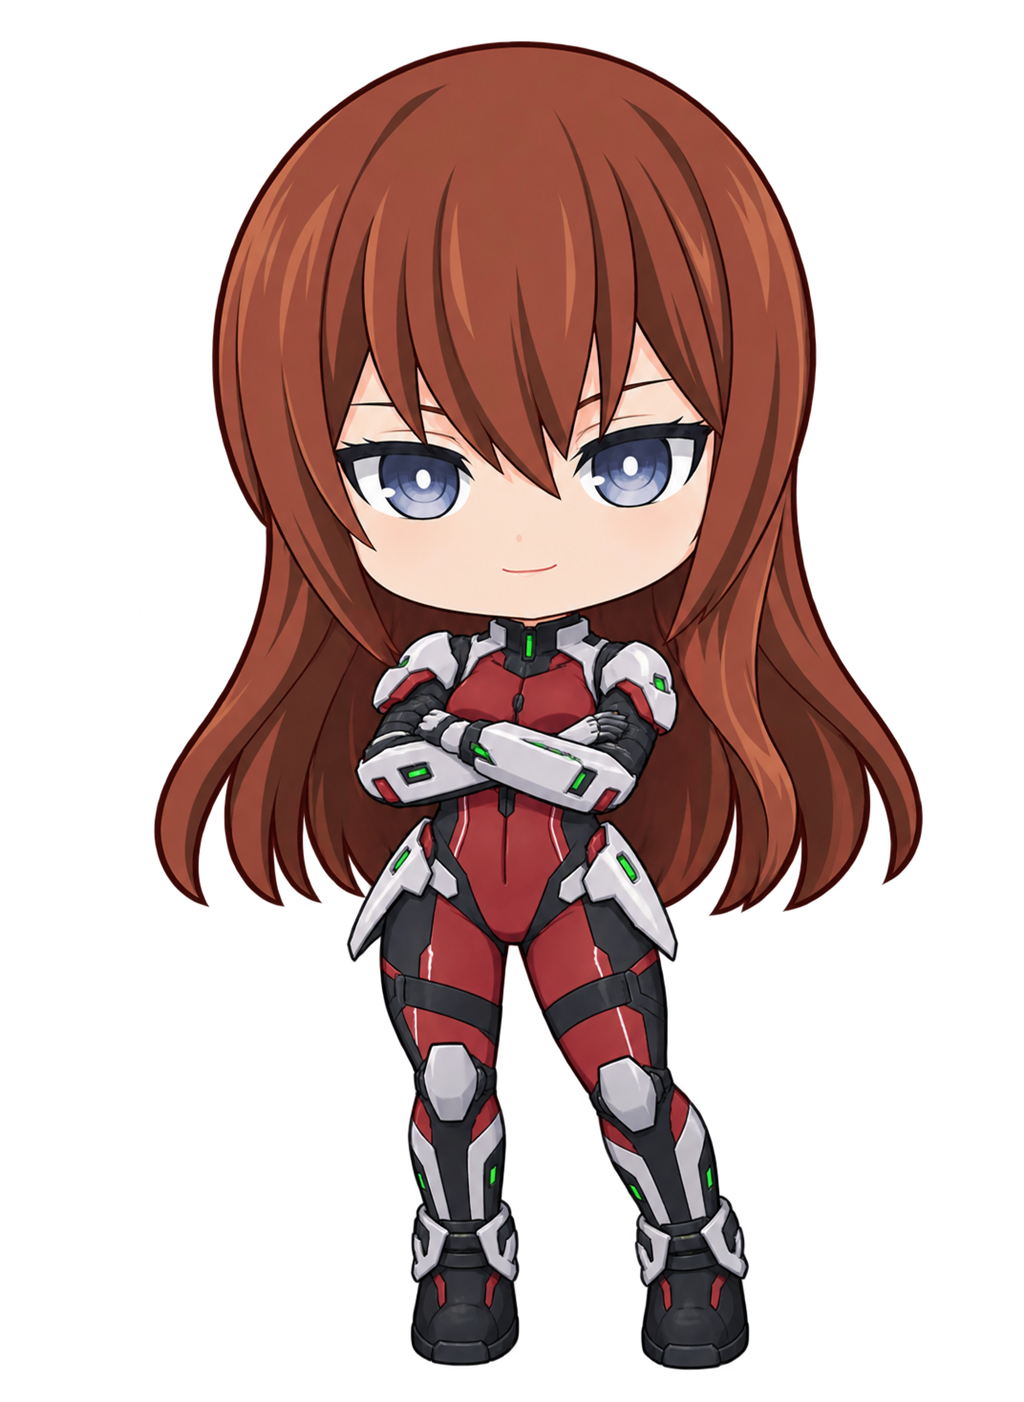
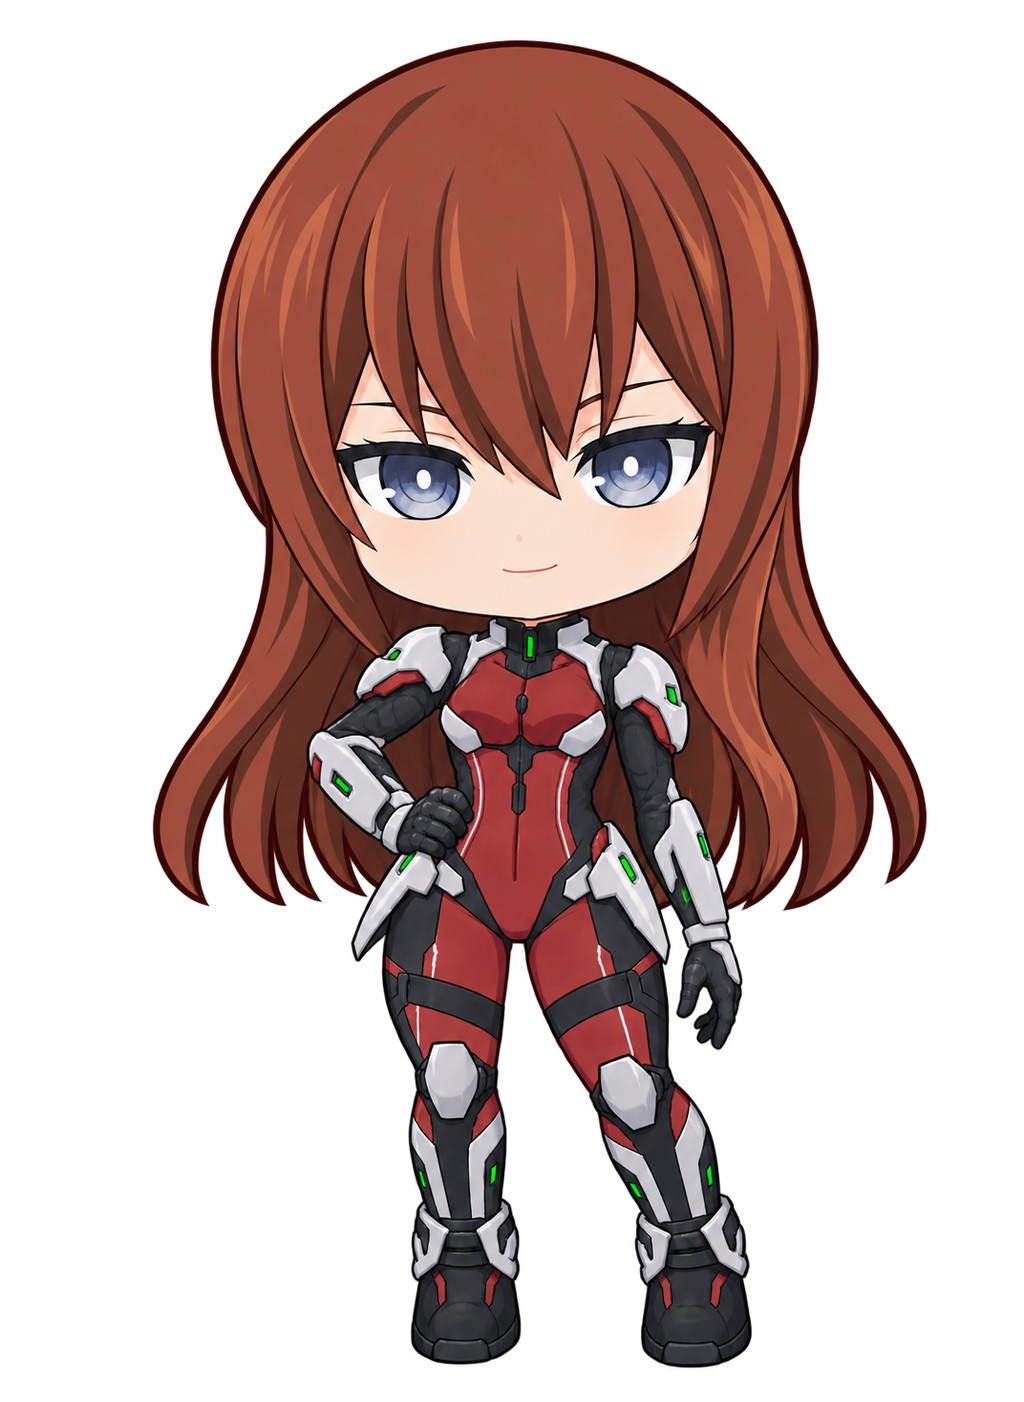
Release v3.2.0: distinct idle poses for seven outfits

diff --git a/src/AssemblyInfo.cs b/src/AssemblyInfo.cs
@@ -3,6 +3,6 @@ using System.Reflection;
 [assembly: AssemblyTitle("Makise Desktop Pet")]
 [assembly: AssemblyProduct("Makise Desktop Pet")]
 [assembly: AssemblyDescription("Windows desktop companion featuring Makise Kurisu")]
-[assembly: AssemblyVersion("3.1.2.0")]
-[assembly: AssemblyFileVersion("3.1.2.0")]
-[assembly: AssemblyInformationalVersion("3.1.2")]
+[assembly: AssemblyVersion("3.2.0.0")]
+[assembly: AssemblyFileVersion("3.2.0.0")]
+[assembly: AssemblyInformationalVersion("3.2.0")]

diff --git a/README.md b/README.md
@@ -4,13 +4,25 @@
 
 透明背景、无边框的 Windows 桌面小挂件：会眨眼、呼吸、回应点击，也会在安静时打瞌睡；原版与七套服饰均能用眼睛追随鼠标。基础互动无需联网、登录、管理员权限或付费 API；可选的本地聊天在首次下载模型后也能离线使用。
 
-**当前版本：v3.1.2。** 普通用户请下载 Windows 运行包，完整解压后双击 `MakiseDesktopPet.exe`，无需编译。角色改用统一的 2D 造型，并可从原版切换到七套服饰；选择会保存在本机，重启后继续使用。
+**当前版本：v3.2.0。** 普通用户请下载 Windows 运行包，完整解压后双击 `MakiseDesktopPet.exe`，无需编译。原版与七套服饰可随时切换，七套服饰现在各有专属待机姿势；选择会保存在本机，重启后继续使用。
 
-[下载 Windows 运行包](https://github.com/zhangchuancheng/Windows-Desktop-Pet-Kurisu/releases/download/v3.1.2/MakiseDesktopPet-Windows.zip) · [发布页面与源码包](https://github.com/zhangchuancheng/Windows-Desktop-Pet-Kurisu/releases/tag/v3.1.2)
+[下载 Windows 运行包](https://github.com/zhangchuancheng/Windows-Desktop-Pet-Kurisu/releases/download/v3.2.0/MakiseDesktopPet-Windows.zip) · [发布页面与源码包](https://github.com/zhangchuancheng/Windows-Desktop-Pet-Kurisu/releases/tag/v3.2.0)
 
 请保留程序旁的 `assets/`、`dialogues.json`、`chat-persona.json` 和配置文件，不要只移动 EXE。运行包内的“使用说明.txt”包含启动、操作、聊天设置、更新和常见问题。
 
 更新时先从托盘退出旧版，再把新版完整解压到新文件夹，运行其中的 EXE。原有设置和聊天偏好会继续沿用；桌面快捷方式请改为指向新版。源码包用于开发，普通使用请选择 **Windows 运行包**。
+
+## v3.2.0 更新：七套服饰专属待机
+
+![七套服饰的专属待机姿势](docs/media/outfit-idle-v3.2.jpg)
+
+从左到右：实验服扶颌思考、女仆装扶肘抬手、浴衣轻拢袖口、圣诞装轻扶帽檐、红礼服身前叠手、运动泳装单手叉腰、战斗装腰侧握拳。新版重画手臂、手腕和手指的衔接，让服饰有各自的待机气质。浅色背景仅用于预览，实际素材为透明 PNG。
+
+- 原版经典抱臂姿势保留；七套服饰沿用轻微呼吸、局部眨眼与鼠标追视。
+- 点击、连点、拖拽、睡眠和唤醒继续使用各套既有动作。
+- 右键角色或托盘图标 →“切换服装”即可查看，重启后保留选择。
+
+已通过服饰眨眼、九方向追视及换装回归，检查覆盖 100、355、500 像素。素材制作与检查范围见 [待机动作说明](docs/IDLE-POSES.md)。
 
 ## v3.1.2 更新：交互修复与缩放优化
 
@@ -57,7 +69,7 @@
 
 v3.1.0 已修复七套服饰待机时的眨眼抽动：统一保留待机身体，只改变眼部，呼吸动画持续运行。旧全身眨眼图仍保留作参考，检查结果见 [待机眨眼修复记录](docs/IDLE-BLINK-FIX.md)。下列内容为 v3.0.0 发布时记录。
 
-七套新增皮肤的待机样式（从左到右与服装菜单顺序一致）：
+七套服饰当前的待机样式（图片已更新为 v3.2.0，从左到右与服装菜单顺序一致）：
 
 <table>
   <tr>

diff --git a/docs/IDLE-POSES.md b/docs/IDLE-POSES.md
@@ -1,0 +1,25 @@
+# v3.2.0 七套服饰专属待机
+
+以各套已有的 2D 立绘为编辑底稿，使用内置图像生成工具重画待机手臂与手部。候选图经用户确认后替换；未改变原版待机。人物、服装和配色沿用既有设计，图片是非官方同人项目的 AI 辅助制作素材。
+
+| 服装目录 | 已选待机动作 |
+| --- | --- |
+| `lab-coat` | 一手扶颌思考，另一手自然垂落 |
+| `maid` | 一手扶另一侧手肘，另一手抬至领口附近（候选 B） |
+| `yukata` | 一手轻拢另一侧袖口，另一只手从袖边自然露出 |
+| `christmas-v2` | 一手轻扶帽檐，另一手自然垂落 |
+| `red-dress-handfix` | 双手在身前轻轻交叠（候选 C） |
+| `beachwear-v2` | 单手叉腰，另一手自然垂落 |
+| `battle-suit` | 一只戴手套的手在腰侧握拳，另一手放松垂落 |
+
+![七套专属待机](media/outfit-idle-v3.2.jpg)
+
+生成约束：保持原有脸型、眼睛、发型、头身比例、服装细节、画风和完整人物构图；重点重画合理的肘腕连接、手指与袖口遮挡；不增加道具、背景或文字。完整候选和生成提示词保存在本机制作记录，运行包只包含确认后的素材。
+
+确认后的 1072 × 1467 透明候选图通过预乘 alpha 的 Lanczos 缩放规范为 1024 × 1402 RGBA，未额外拼接手部或改写人物。每套只替换顶层 `idle.png`，构建后同步到 `assets/outfits/<目录>/idle.png`。
+
+检查新旧图的眼眶边界后，保留 `idle-blink.json` 与 `idle-motion.json`。换装待机由当前底图局部绘制眨眼，不读取旧全身 `blink-half.png`、`blink.png` 作为身体，因此眨眼时仍保持新姿势。呼吸和追视由现有程序继续计算。
+
+原版立绘及七套的点击、连点、拖拽、睡眠、唤醒均未修改。唤醒仍显示原单张过渡图，再回到各自的新待机姿势；本次没有新增动作插帧。
+
+验证包括 100/355/500 像素下局部眨眼不改变身体、九方向追视不改变透明轮廓、睁眼与视线回中精确恢复，以及所有服装的加载、持久化、托盘切换、原版回退和缺失素材回滚。已查看七套新待机的眨眼与追视渲染图；后台检查不替代其他电脑的实机观感验收。

diff --git a/docs/REPOSITORY.md b/docs/REPOSITORY.md
@@ -23,7 +23,7 @@
 
 ## 仓库与版本
 
-公开仓库：[zhangchuancheng/Windows-Desktop-Pet-Kurisu](https://github.com/zhangchuancheng/Windows-Desktop-Pet-Kurisu)，默认分支 `main`。当前版本为 `v3.1.2`，提供 Windows 运行包和源码包；交互修复、异常处理与缩放优化的变更见 [CHANGELOG.md](../CHANGELOG.md)。
+公开仓库：[zhangchuancheng/Windows-Desktop-Pet-Kurisu](https://github.com/zhangchuancheng/Windows-Desktop-Pet-Kurisu)，默认分支 `main`。当前版本为 `v3.2.0`，提供 Windows 运行包和源码包；七套服饰专属待机的变更见 [CHANGELOG.md](../CHANGELOG.md)。
 
 提交作者使用 `zhangchuancheng` 及该 GitHub 账号的 noreply 邮箱。后续提交前检查本地身份与远程地址，避免将提交归属到其他账号：
 
@@ -39,7 +39,7 @@ git commit -m "Describe the change"
 git push origin main
 ```
 
-`origin` 已配置，不需要重新添加。v3.1.2 的运行包、源码包和 SHA-256 校验文件以 GitHub Release 附件提供。ZIP 保留在本机 releases/，不加入 Git 历史；需要更新附件时重新执行 package.ps1。源码包来自 HEAD，打包前须先提交本次发布的代码与文档，确保源码包和运行包对应同一版本。
+`origin` 已配置，不需要重新添加。v3.2.0 的运行包、源码包和 SHA-256 校验文件以 GitHub Release 附件提供。ZIP 保留在本机 releases/，不加入 Git 历史；需要更新附件时重新执行 package.ps1。源码包来自 HEAD，打包前须先提交本次发布的代码与文档，确保源码包和运行包对应同一版本。
 
 ## 首次整理验证（2026-10-15，历史记录）
 

diff --git a/docs/TESTING.md b/docs/TESTING.md
@@ -404,3 +404,11 @@
 - 本地 dist/MakiseDesktopPet.exe 已重建；改动记录在 CHANGELOG 的 v3.1.2 部分。旧 v3.0.0 ZIP 和校验文件归档至 releases/previous/v3.0.0-20261020-audit/，归档后校验值匹配。v3.1.2 提供独立的 Windows 运行包、源码包及 SHA-256 校验文件。
 - 新增测试：tests/RobustnessSmoke.cs，已纳入默认入口。复现日志：test-artifacts/step4-RobustnessSmoke.log；缓存画面对照：test-artifacts/audit-20261020/cache-pixel-parity.log；菜单图：test-artifacts/robustness/menu-1366x728.png。
 - 本轮聊天使用模拟 HTTP 响应，未联调真实 Ollama 模型；跨屏、锁屏、其他 Windows 设备和长期运行仍需单独实机验证。
+
+
+## v3.2.0 七套专属待机验收（2026-10-20）
+
+- 七套经用户确认的待机图已统一到 1024 × 1402 RGBA；对比眼眶坐标后保留已有眨眼与追视配置，源目录和运行目录哈希一致。原版、其他动作与配置保持不变。
+- `OutfitIdleSmoke`、`OutfitGazeSmoke`、`OutfitSwitchSmoke` 全部通过。覆盖 100/355/500 像素、四个呼吸时刻、睁眼/半闭眼/闭眼、九方向追视、精确回正、服装加载和持久化、托盘切换、切回原版与缺失服装回滚。
+- 已目视检查七套待机的实际渲染截图，眨眼时身体保持新姿势，追视范围与新图眼部相符。证据目录为 `test-artifacts/outfit-idle/` 和 `test-artifacts/outfit-gaze/`。
+- 本轮属于素材更新，未更改交互代码；真实模型聊天、其他 Windows 设备、多显示器及长期运行未重测。

diff --git a/CHANGELOG.md b/CHANGELOG.md
@@ -1,5 +1,13 @@
 # 更新记录
 
+## v3.2.0 — 七套服饰专属待机（2026-10-20）
+
+- 更新七套服饰的待机立绘：实验服扶颌思考、女仆装扶肘抬手、浴衣拢袖、圣诞装扶帽、红礼服身前叠手、运动泳装叉腰、战斗装腰侧握拳。
+- 重画待机手臂、手腕、手指与袖口衔接，保持现有 2D 画风；原版抱臂姿势保留。
+- 透明素材统一为 1024 × 1402 RGBA，核对眼部位置后沿用现有局部眨眼与追视配置；点击、连点、拖拽、睡眠和唤醒素材保持不变。
+- 更新 README 服饰预览、素材记录和使用说明。提供 Windows 运行包、源码包与 SHA-256 校验文件。
+- `OutfitIdleSmoke`、`OutfitGazeSmoke`、`OutfitSwitchSmoke` 通过，覆盖 100/355/500 像素、三种眼睛状态、九个追视方向、服装切换与回退；已目视检查新姿态的实际渲染预览。本轮没有重测真实聊天模型、跨屏或长期运行。
+
 ## v3.1.2 — 交互与异常处理修复（2026-10-20）
 
 - 聊天等待期间继续编辑输入框时保留新草稿；只有未经修改的已发送内容会在回复后清空。

diff --git a/docs/ASSETS.md b/docs/ASSETS.md
@@ -23,6 +23,8 @@
 
 ## 切换服装
 
+v3.2.0 更新七套服饰的 `idle.png` 为各自专属姿势，原版抱臂保留。制作来源、具体动作与局部眨眼兼容性见 [七套专属待机说明](IDLE-POSES.md)。
+
 右键桌宠，在设置中选择“切换服装”，可选原版，以及实验服、女仆装、浴衣、圣诞装、红礼服、运动泳装、战斗装七套服饰。选择会保存在 `%LOCALAPPDATA%\MakiseDesktopPet\settings.json`，下次启动继续使用；选择原版即可切回现有造型。
 
 七套换装运行图位于 `assets/concepts/outfit-actions-2026-10-19/`：目录 ID 依次为 `lab-coat`、`maid`、`yukata`、`christmas-v2`、`red-dress-handfix`、`beachwear-v2`、`battle-suit`。运行构建把每套目录顶层的 11 张透明 PNG 复制到 `dist/assets/outfits/<ID>/`；生成原图与历史变体保存在本地制作目录，不属于发布源码，也不进入运行包。原版继续使用 `dist/assets/sprites/`。修改服饰图片后重新运行 `build.ps1`，或在退出桌宠后替换运行目录中的对应 PNG。
